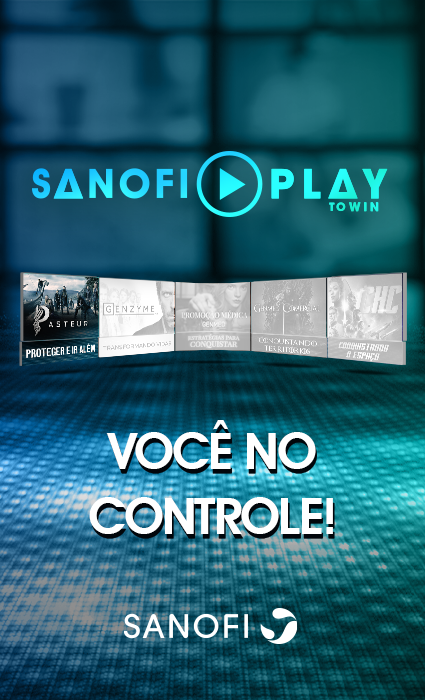
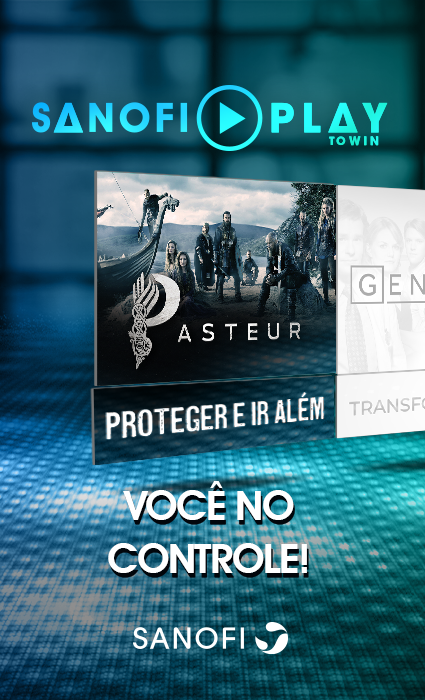
ajuste de layout

diff --git a/Aplicacao/SAN123/Content/js/custom.js b/Aplicacao/SAN123/Content/js/custom.js
@@ -61,48 +61,50 @@ function ValidaVazios() {
 $('#btn-editar').click(function () {
     modoEdicao = true;
     manipularCampos();
+    $("#alert-perfil").addClass("d-none");
 });
 
 $('#modal_detalhesPerfil').on('hide.bs.modal',
     function (e) {
-        if (modoEdicao) {
-            e.preventDefault();
-            e.stopImmediatePropagation();
+    if (modoEdicao) {
+        e.preventDefault();
+        e.stopImmediatePropagation();
 
-            const swalWithCustomizedButtons = Swal.mixin({
-                customClass: {
-                    confirmButton: 'btn btn-dark text-white',
-                    cancelButton: 'btn btn-danger text-white ml-4'
-                },
-                buttonsStyling: false
+        const swalWithCustomizedButtons = Swal.mixin({
+            customClass: {
+                confirmButton: 'btn btn-dark text-white',
+                cancelButton: 'btn btn-danger text-white ml-4'
+            },
+            buttonsStyling: false
+        });
+
+        swalWithCustomizedButtons.fire({
+            title: "Ops!",
+            text: "Quer mesmo sair do modo edição, e fechar?",
+            icon: "warning",
+            showCancelButton: true,
+            confirmButtonText: "SIM",
+            cancelButtonText: "NÃO"
+        })
+            .then((result) => {
+                if (result.value) {
+
+                    modoEdicao = false;
+                    manipularCampos();
+                    $('#modal_detalhesPerfil').modal('hide');
+
+                } else if (result.dismiss === Swal.DismissReason.cancel) {
+
+
+                }
             });
-
-            swalWithCustomizedButtons.fire({
-                title: "Ops!",
-                text: "Quer mesmo sair do modo edição, e fechar?",
-                icon: "warning",
-                showCancelButton: true,
-                confirmButtonText: "SIM",
-                cancelButtonText: "NÃO"
-            })
-                .then((result) => {
-                    if (result.value) {
-
-                        modoEdicao = false;
-                        manipularCampos();
-                        $('#modal_detalhesPerfil').modal('hide');
-
-                    } else if (result.dismiss === Swal.DismissReason.cancel) {
-
-
-                    }
-                });
         }
     });
 
 $('#btn-cancelar').click(function () {
     modoEdicao = false;
     manipularCampos();
+    $("#alert-perfil").addClass("d-none");
 });
 
 $('#btn-salvar').click(function () {
@@ -124,7 +126,7 @@ $('#btn-salvar').click(function () {
             beforeSend: function () {
                 $("#alert-perfil")
                     .removeClass("d-none")
-                    .html("<span class='alert alert-info'><i class='fa fa-1x fa-spinner fa-spin'></i> Processando... </span>");
+                    .html("<div class='px-3 py-2 bg-gray text-dark rounded d-inline-block mt-2'><i class='fa fa-1x fa-spinner fa-spin'></i> Processando... </div>");
                 $(this).prop('disabled', true);
                 $('#div-campos-cadastro').prop('disabled', true);
             },
@@ -141,13 +143,13 @@ $('#btn-salvar').click(function () {
                     $('#perfil-senha').val(perfilSenha);
                 }
 
-                $("#alert-perfil").removeClass("d-none").html(retorno.PRP_Mensagem);
+                $("#alert-perfil").removeClass("d-none").html("<div class='px-3 py-2 bg-gray text-dark rounded d-inline-block mt-2'>" + retorno.PRP_Mensagem + "</div>");
             },
             error: function () {
 
                 $("#alert-perfil")
                     .removeClass("d-none")
-                    .html("<span class='alert alert-danger'>Erro na conexão com o Servidor. Tente novamente mais tarde.</span>");
+                    .html("<div class='px-3 py-2 bg-gray text-dark rounded d-inline-block mt-2'>Erro na conexão com o Servidor. Tente novamente mais tarde.</div>");
 
             },
             complete: function () {
@@ -159,7 +161,7 @@ $('#btn-salvar').click(function () {
     } else {
         $("#alert-perfil")
             .removeClass("d-none")
-            .html("<span class='alert alert-warning d-flex'>Ainda existem campos inválidos ou vazios. Preencha-os corretamente para continuar</span>");
+            .html("<div class='px-3 py-2 bg-gray text-dark rounded d-inline-block mt-2'>Ainda existem campos inválidos ou vazios. Preencha-os corretamente para continuar</div>");
     }
 });
 
@@ -170,9 +172,17 @@ $('button[name="btn_contato"]').bind('click', function (event) {
     event.preventDefault();
 
     $('#contato_mensagem').trigger('change');
+    
+    if ($('#contato_mensagem').val() == "") {
+        $('#alert_contato').removeClass('d-none').html("<div class='px-3 py-2 bg-gray text-dark rounded d-inline-block mt-2'> Deixe sua mensagem.</div>");
+        $('#contato_mensagem').focus();
+        return false;
+    }
+
     var parametros = {};
     parametros.pIdUsuario = parseInt($('#id-usuario').val());
     parametros.pMensagem = $('#contato_mensagem').val();
+
 
     $.ajax({
         type: 'POST',
@@ -182,23 +192,17 @@ $('button[name="btn_contato"]').bind('click', function (event) {
         dataType: 'json',
         beforeSend: function () {
             $('button[name="btn_contato"]').addClass('disabled');
-            $('#alert_contato')
-                .removeClass('d-none')
-                .html('<span class="alert alert-info"><i class="fa fa-1x fa-spinner fa-spin"></i> Enviando...</span>');
+            $('#alert_contato').removeClass('d-none').html('<div class="px-3 py-2 bg-gray text-dark rounded d-inline-block mt-2 line-height-2"><i class="fa fa-1x fa-spinner fa-spin"></i> Enviando...</div>');
         },
         success: function (returnValue) {
             console.log(returnValue);
             var jsonResult = JSON.parse(returnValue);
             if (jsonResult.PRP_Status === true) {
-                $('#alert_contato').removeClass('d-none')
-                    .html(
-                        '<p class="alert alert-success py-2 m-0">Mensagem enviada!<br>Aguarde o retorno via e-mail ou telefone.</p>');
+                $('#alert_contato').removeClass('d-none').html('<div class="px-3 py-2 bg-gray text-dark rounded d-inline-block mt-2 line-height-2">Mensagem enviada!<br>Aguarde o retorno via e-mail ou telefone.</div>');
                 $('button[name="btn_contato"]').removeAttr('disabled', 'disabled');
             } else {
                 $('button[name="btn_contato"]').addClass('disabled');
-                $('#alert_contato').removeClass('d-none')
-                    .html(
-                        '<p class="alert alert-warning py-2 m-0">Erro ao enviar mensagem!<br>Favor tentar novamente.</p>');
+                $('#alert_contato').removeClass('d-none').html('<div class="px-3 py-2 bg-gray text-dark rounded d-inline-block mt-2 line-height-2">Erro ao enviar mensagem!<br>Favor tentar novamente.</div>');
             }
         }
     });

diff --git a/Aplicacao/SAN123/Content/js/cadastro.js b/Aplicacao/SAN123/Content/js/cadastro.js
@@ -8,7 +8,7 @@ $(document).on('click', '#btnVerificarCadasro', function (event) {
     var parametros = {};
     parametros.pCPF = $('#cadastrocpf').val();
     if ($('#cadastrocpf').val() == "") {
-        $('#MontaHTMLCadastro').html("<span class='py-2'><i class='fa fa-1x fa-spinner fa-spin'></i> Informe o CPF para prosseguir</span>").removeClass('d-none');
+        $('#MontaHTMLCadastro').html("<div class='px-3 py-2 bg-gray text-dark rounded d-inline-block mt-2'>Informe o CPF para prosseguir</div>").removeClass('d-none');
         $('#cadastrocpf').focus();
         return false;
     }
@@ -20,8 +20,7 @@ $(document).on('click', '#btnVerificarCadasro', function (event) {
         dataType: 'json',
         beforeSend: function () {
             $('#btnVerificarCadasro').addClass('d-none')
-            $('#MontaHTMLCadastro').html("<span class='py-2'><i class='fa fa-1x fa-spinner fa-spin'></i> Verificando cadastro...</span>").removeClass('d-none');
-            
+            $('#MontaHTMLCadastro').html("<div class='px-3 py-2 bg-gray text-dark rounded d-inline-block'><i class='fa fa-1x fa-spinner fa-spin'></i> Verificando cadastro...</div>").removeClass('d-none');
         },
         success: function (ret) {
             if (ret.PRP_Requisicao.PRP_Status == true) {
@@ -58,13 +57,13 @@ $(document).on('click', '#btnVerificarCadasro', function (event) {
                     $('#divSenha').removeClass('d-none');
                     $('#btnEfetuarLogin').removeClass('d-none');
                     $('#btnVerificarCadasro').addClass('d-none');
-                    $('#cadastrocpf').prop('disabled', true);
+                    // $('#cadastrocpf').prop('disabled', true);
                     $('#MontaHTMLCadastro').empty().addClass('d-none');
                 }
             }
             else {
                 $('#btnVerificarCadasro').removeClass('d-none')
-                $('#MontaHTMLCadastro').removeClass('d-none').html(ret.PRP_Requisicao.PRP_Mensagem);
+                $('#MontaHTMLCadastro').removeClass('d-none').html("<div class='px-3 py-2 bg-gray text-dark rounded d-inline-block mt-2'>" + ret.PRP_Requisicao.PRP_Mensagem + "</div>");
             }
         }
     });
@@ -162,12 +161,12 @@ $(document).on('click', '#btnEfetuarLogin', function (event) {
     parametros.pSenha = $('#txtSenha').val();
 
     if ($('#cadastrocpf').val() == "") {
-        $('#MontaHTMLCadastro').html("<div class='alert alert-danger'><i class='fa fa-info-circle fa-lg'></i> <span>Informe o seu Login.</span></div>").removeClass('d-none');
+        $('#MontaHTMLCadastro').html("<div class='px-3 py-2 bg-gray text-dark rounded d-inline-block mt-2'><i class='fa fa-info-circle fa-lg'></i> <span>Informe seu CPF.</span></div>").removeClass('d-none');
         $('#cadastrocpf').focus();
         return false;
     }
     if ($('#txtSenha').val() == "") {
-        $('#MontaHTMLCadastro').html("<div class='alert alert-danger'><i class='fa fa-info-circle fa-lg'></i> <span>informe a sua Senha.</span></div>").removeClass('d-none');
+        $('#MontaHTMLCadastro').html("<div class='px-3 py-2 bg-gray text-dark rounded d-inline-block mt-2'><i class='fa fa-info-circle fa-lg'></i> <span>Informe sua senha.</span></div>").removeClass('d-none');
         $('#txtSenha').focus();
         return false;
     }
@@ -187,7 +186,7 @@ $(document).on('click', '#btnEfetuarLogin', function (event) {
                 location.href = '/Conteudo/Home';
             } else {
                 $('#btnEfetuarLogin').removeClass('disabled').html('ENTRAR');
-                $('#MontaHTMLCadastro').removeClass('d-none').html(jsonResult.PRP_Mensagem);
+                $('#MontaHTMLCadastro').removeClass('d-none').html("<div class='px-3 py-2 bg-gray text-dark rounded d-inline-block mt-2'>" + jsonResult.PRP_Mensagem + "</div>");
             }
         }
     })

diff --git a/Aplicacao/SAN123/Content/css/custom.css b/Aplicacao/SAN123/Content/css/custom.css
@@ -22,10 +22,15 @@
 #login {
     background: url(../img/BG_SAN149.png) no-repeat center center;
     background-size: cover;
+    height: 100vh;
 }
 
 #login .btn-dark{
 	background-color: #01325a;
+}
+
+.bg-gray {
+    background-color: #ccc;
 }
 
 .bg-sanofi {
@@ -70,6 +75,11 @@ body{
 .card-body{
 	border-top-left-radius: 0px!important;
 }
+
+.header-body{
+	top: 0px!important; 
+}
+
 /* --- home --- */
 	#header .header-nav-main nav > ul > li.open > a,
 	#header .header-nav-main nav > ul > li:hover > a {
@@ -80,8 +90,19 @@ body{
 		color: #000!important;
 	}
 
+	.banners .d-lg-block{
+		margin-top: -60px;
+	}
+
 
 @media screen and (max-width: 768px) {
+	.banners .d-md-block{
+		margin-top: -10px;
+	}
+	#header .header-nav-main:before{
+		background-color: #212529;
+	}
+
 	.card-sign input{
 		height: 40px;
 		font-size: 16px; 
@@ -107,6 +128,14 @@ body{
 @media screen and (max-width: 425px) {
 	.body-sign{
 		height: auto;
+	}
+
+	.header-logo img{
+		max-width: 200px;
+		top: 0px!important;
+	}
+	.banners .d-block{
+		margin-top: -50px;
 	}
 
 	.primeiro-acesso .card-body{

diff --git a/Aplicacao/SAN123/Models/SITE/Login/LoginService.cs b/Aplicacao/SAN123/Models/SITE/Login/LoginService.cs
@@ -58,7 +58,7 @@ namespace Aplicacao.Models.SITE.Login
                 else
                 {
                     objRetorno.PRP_Status = false;
-                    objRetorno.PRP_Mensagem = "Senha incorreta".MTD_MensagemHTML(EnunsApp.enum_TipoMensagem.Info);
+                    objRetorno.PRP_Mensagem = "Senha incorreta"; //.MTD_MensagemHTML(EnunsApp.enum_TipoMensagem.Info);
                     objRetorno.PRP_TipoMensagem = EnunsApp.enum_TipoMensagem.Success;
                 }
             }
@@ -305,7 +305,7 @@ namespace Aplicacao.Models.SITE.Login
                 else
                 {
                     retornoUsuario.PRP_Requisicao.PRP_Status = false;
-                    retornoUsuario.PRP_Requisicao.PRP_Mensagem = "CPF não localizado em nossa base.".MTD_MensagemHTML(EnunsApp.enum_TipoMensagem.Danger);
+                    retornoUsuario.PRP_Requisicao.PRP_Mensagem = "CPF não localizado em nossa base."; //.MTD_MensagemHTML(EnunsApp.enum_TipoMensagem.Danger);
                     retornoUsuario.PRP_Requisicao.PRP_TipoMensagem = EnunsApp.enum_TipoMensagem.Danger;
                 }
             }
@@ -373,7 +373,7 @@ namespace Aplicacao.Models.SITE.Login
                     EF.SaveChanges();
                     ret.PRP_Status = true;
                     ret.PRP_TipoMensagem = EnunsApp.enum_TipoMensagem.Success;
-                    ret.PRP_Mensagem = "Dados atualizados com sucesso.".MTD_MensagemHTML(EnunsApp.enum_TipoMensagem.Success);
+                    ret.PRP_Mensagem = "Dados atualizados com sucesso."; //.MTD_MensagemHTML(EnunsApp.enum_TipoMensagem.Success);
                 }
                 else
                 {
